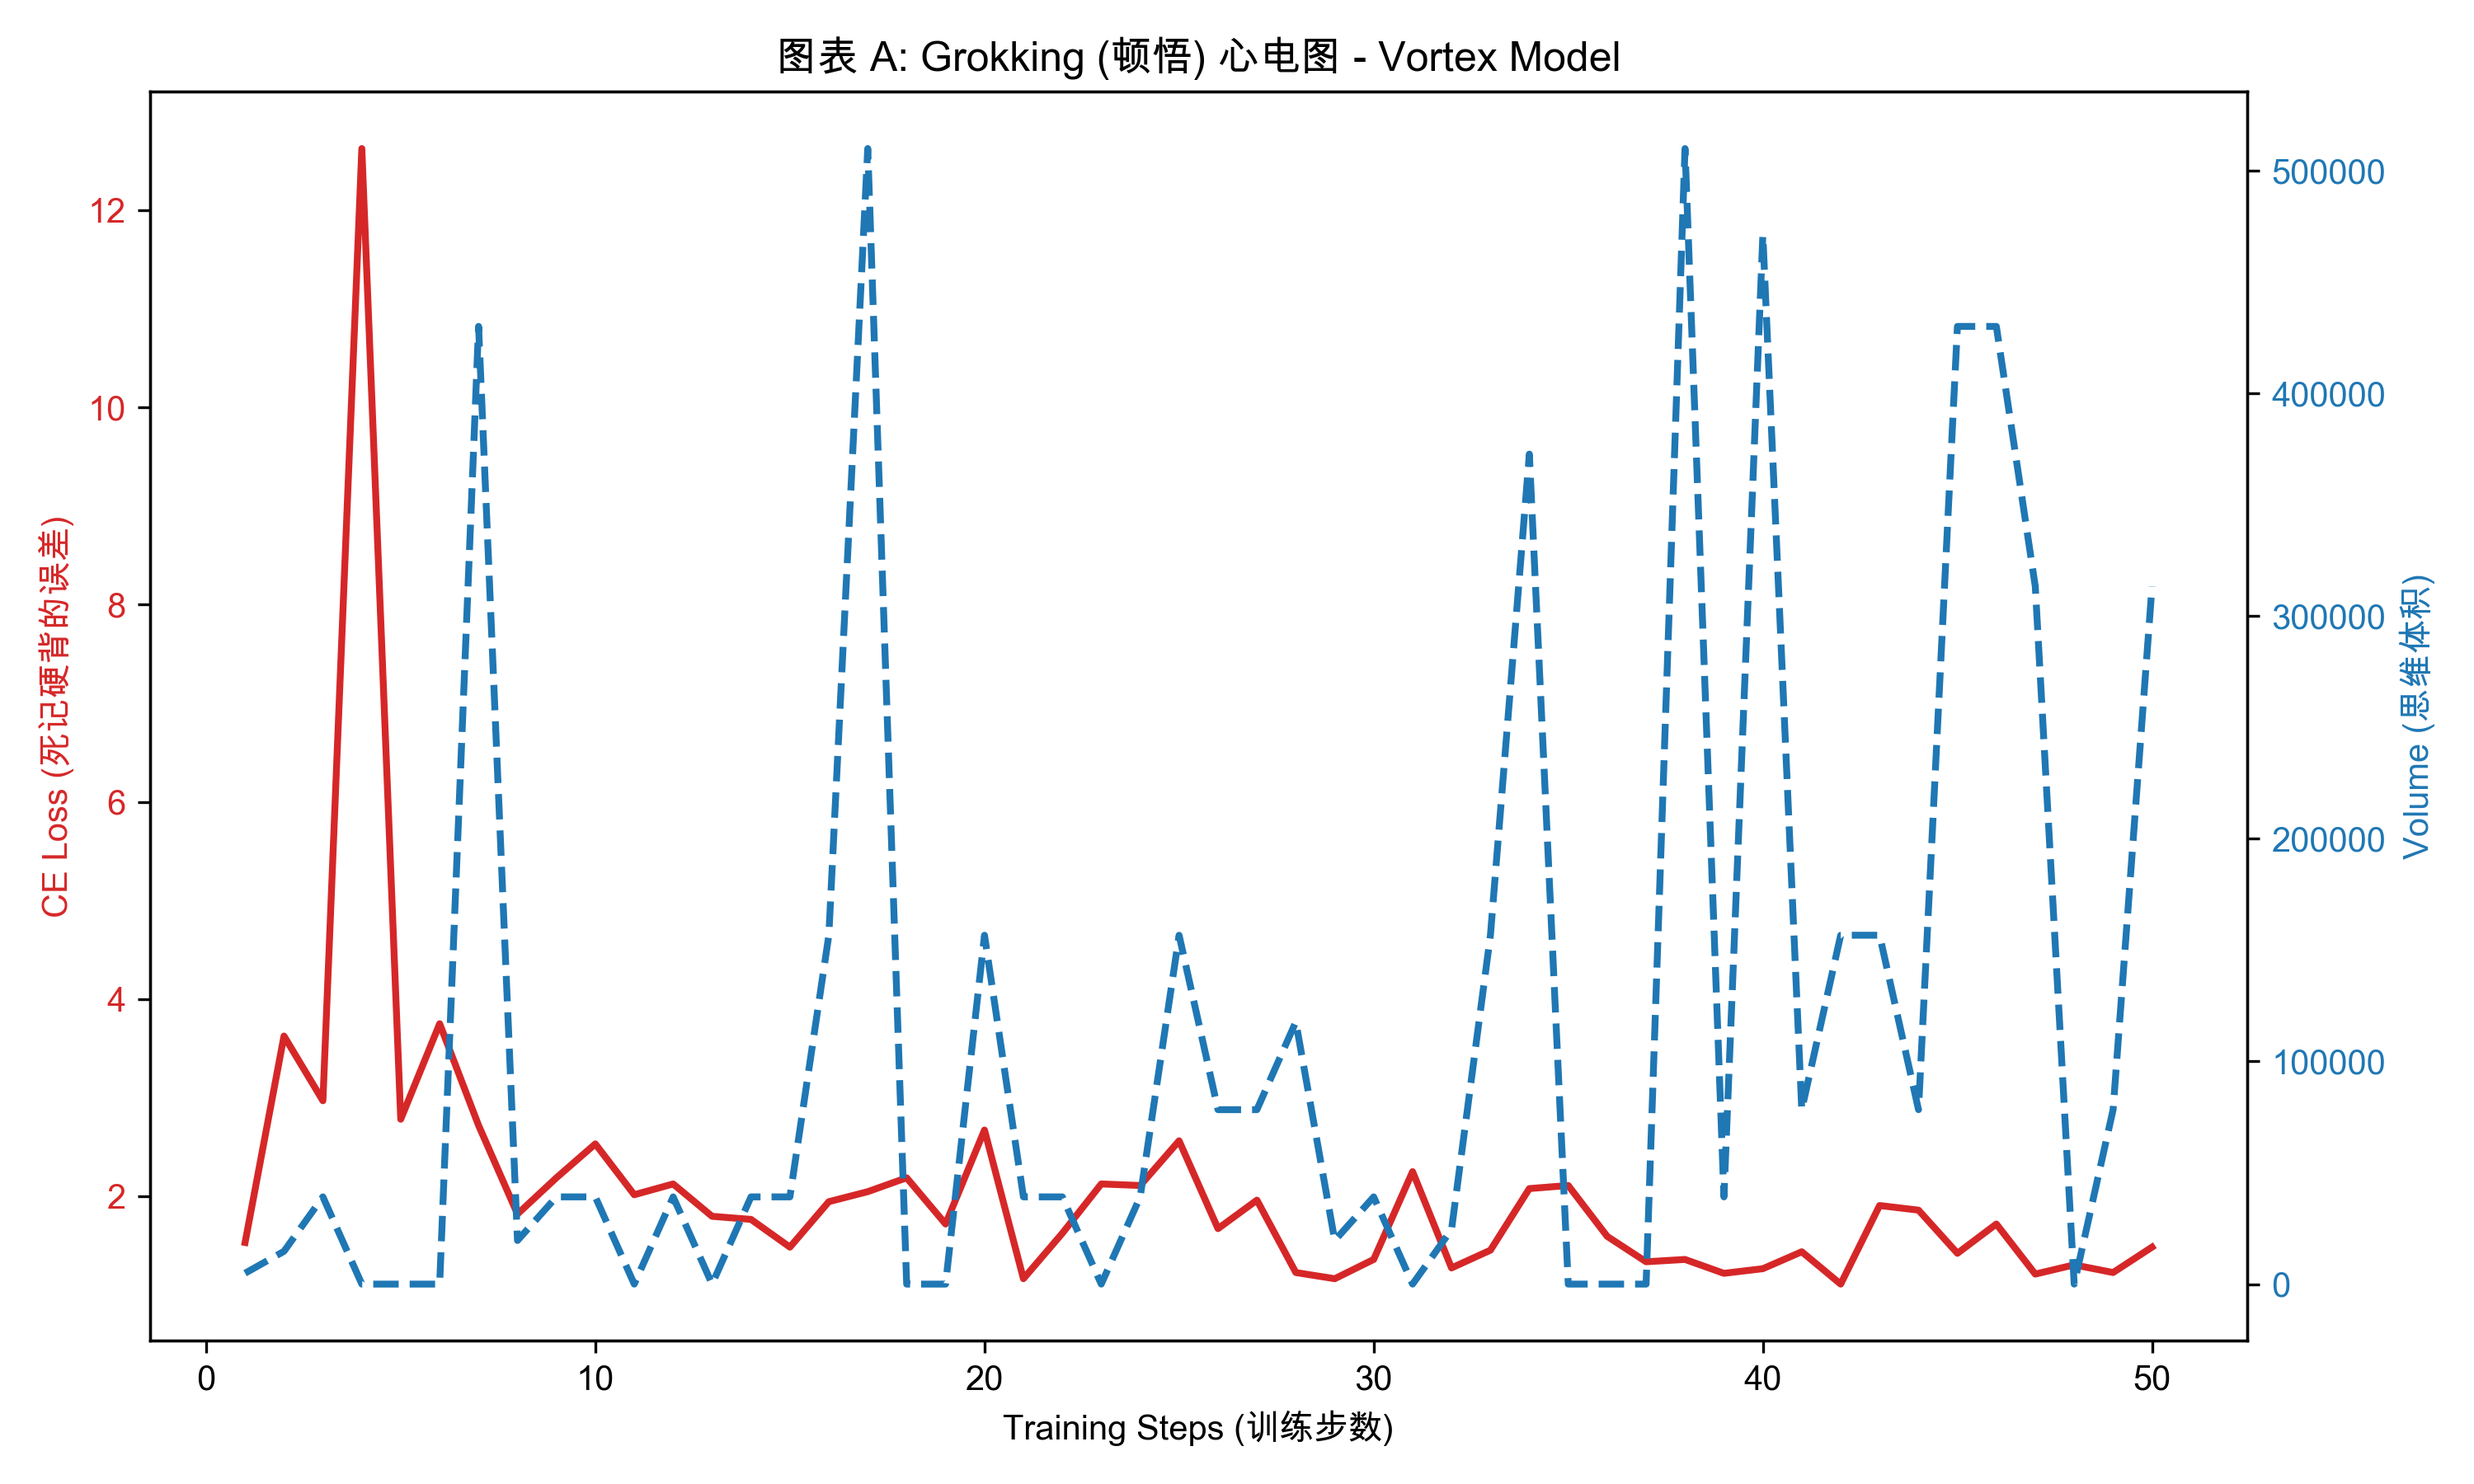
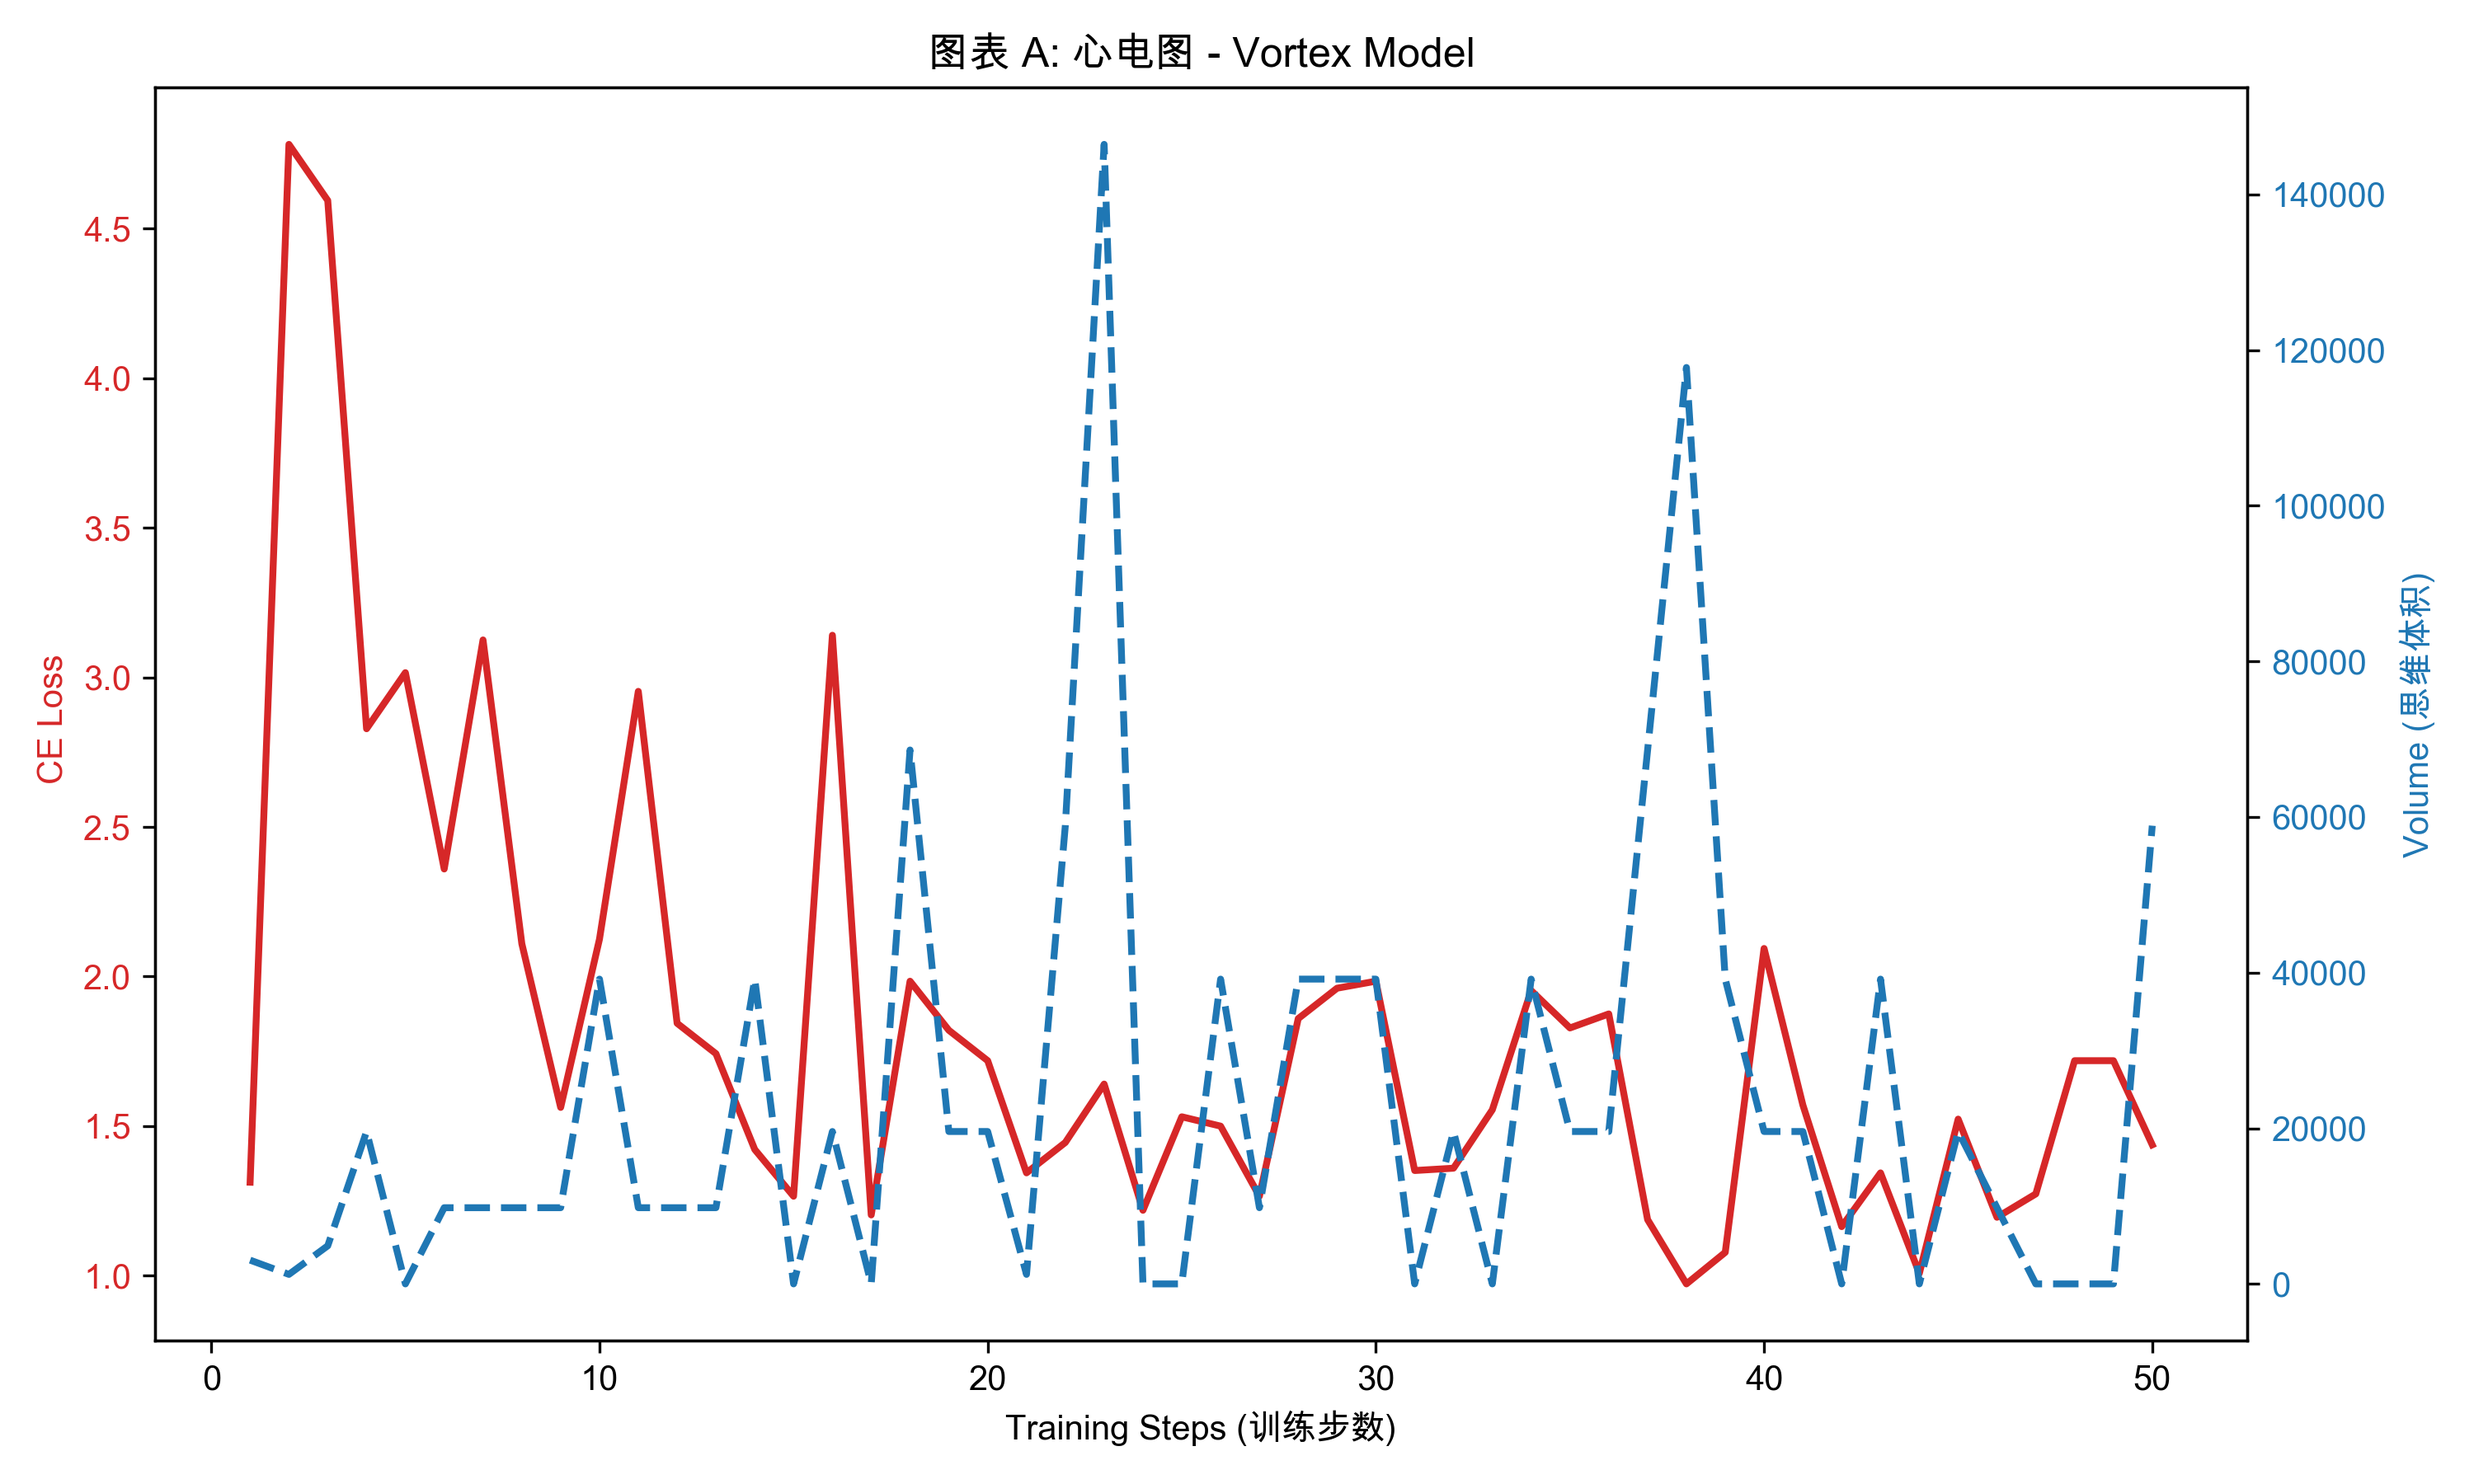
验证

diff --git a/train_vortex.py b/train_vortex.py
@@ -9,7 +9,7 @@ from huggingface_hub import login
 import os
 
 os.environ["HF_ENDPOINT"] = "https://hf-mirror.com"
-login("Your_Hugging_Face_Token") # 替换成你的 Hugging Face 访问令牌
+login("YOUR_HUGGING_FACE_TOKEN") # 替换成你的 Hugging Face 访问令牌
 
 # ========================================================
 # 1. 后勤准备：加载数据
@@ -46,20 +46,27 @@ def compute_volume_loss(hidden_in, hidden_attn, hidden_mlp):
     q_mock = hidden_in[:, -1, :]   # 当前词
     k_mock = hidden_in[:, -2, :]   # 上一个词
     v_mock = hidden_in[:, -3, :]   # 上上个词
+
+    # 防作弊机制：把向量长度强行压缩为 1，只研究它们的夹角（纯粹的正交性）
+    hidden_in_norm = hidden_in / (mx.linalg.norm(hidden_in, axis=-1, keepdims=True) + 1e-6)
+    hidden_attn_norm = hidden_attn / (mx.linalg.norm(hidden_attn, axis=-1, keepdims=True) + 1e-6)
+    hidden_mlp_norm = hidden_mlp / (mx.linalg.norm(hidden_mlp, axis=-1, keepdims=True) + 1e-6)
+    
+    # 用带 _norm 的张量去算矩阵 M 和 行列式...
     
     # 构建 3x3 矩阵 (在 Batch 维度上进行)
     # 用三大物理场与特征向量做点积，瞬间降维
-    row1 = mx.stack([mx.sum(hidden_in[:, -1, :] * q_mock, axis=-1), 
-                     mx.sum(hidden_in[:, -1, :] * k_mock, axis=-1), 
-                     mx.sum(hidden_in[:, -1, :] * v_mock, axis=-1)], axis=-1)
+    row1 = mx.stack([mx.sum(hidden_in_norm[:, -1, :] * q_mock, axis=-1), 
+                     mx.sum(hidden_in_norm[:, -1, :] * k_mock, axis=-1), 
+                     mx.sum(hidden_in_norm[:, -1, :] * v_mock, axis=-1)], axis=-1)
                      
-    row2 = mx.stack([mx.sum(hidden_attn[:, -1, :] * q_mock, axis=-1), 
-                     mx.sum(hidden_attn[:, -1, :] * k_mock, axis=-1), 
-                     mx.sum(hidden_attn[:, -1, :] * v_mock, axis=-1)], axis=-1)
+    row2 = mx.stack([mx.sum(hidden_attn_norm[:, -1, :] * q_mock, axis=-1), 
+                     mx.sum(hidden_attn_norm[:, -1, :] * k_mock, axis=-1), 
+                     mx.sum(hidden_attn_norm[:, -1, :] * v_mock, axis=-1)], axis=-1)
                      
-    row3 = mx.stack([mx.sum(hidden_mlp[:, -1, :] * q_mock, axis=-1), 
-                     mx.sum(hidden_mlp[:, -1, :] * k_mock, axis=-1), 
-                     mx.sum(hidden_mlp[:, -1, :] * v_mock, axis=-1)], axis=-1)
+    row3 = mx.stack([mx.sum(hidden_mlp_norm[:, -1, :] * q_mock, axis=-1), 
+                     mx.sum(hidden_mlp_norm[:, -1, :] * k_mock, axis=-1), 
+                     mx.sum(hidden_mlp_norm[:, -1, :] * v_mock, axis=-1)], axis=-1)
     
     M = mx.stack([row1, row2, row3], axis=-1) # shape: (batch_size, 3, 3)
     
@@ -183,7 +190,7 @@ def main():
     
     color1 = 'tab:red'
     ax1.set_xlabel('Training Steps (训练步数)')
-    ax1.set_ylabel('CE Loss (死记硬背的误差)', color=color1)
+    ax1.set_ylabel('CE Loss ', color=color1)
     ax1.plot(steps_vortex, history_vortex["ce_loss"], color=color1, label='CE Loss', linewidth=2)
     ax1.tick_params(axis='y', labelcolor=color1)
     
@@ -193,7 +200,7 @@ def main():
     ax2.plot(steps_vortex, history_vortex["volume"], color=color2, label='Volume', linewidth=2, linestyle='--')
     ax2.tick_params(axis='y', labelcolor=color2)
     
-    plt.title('图表 A: Grokking (顿悟) 心电图 - Vortex Model')
+    plt.title('图表 A: 心电图 - Vortex Model')
     fig.tight_layout()  
     plt.savefig('chart_A_grokking.png', dpi=300)
     print("✅ 图表 A 保存为 'chart_A_grokking.png'")
